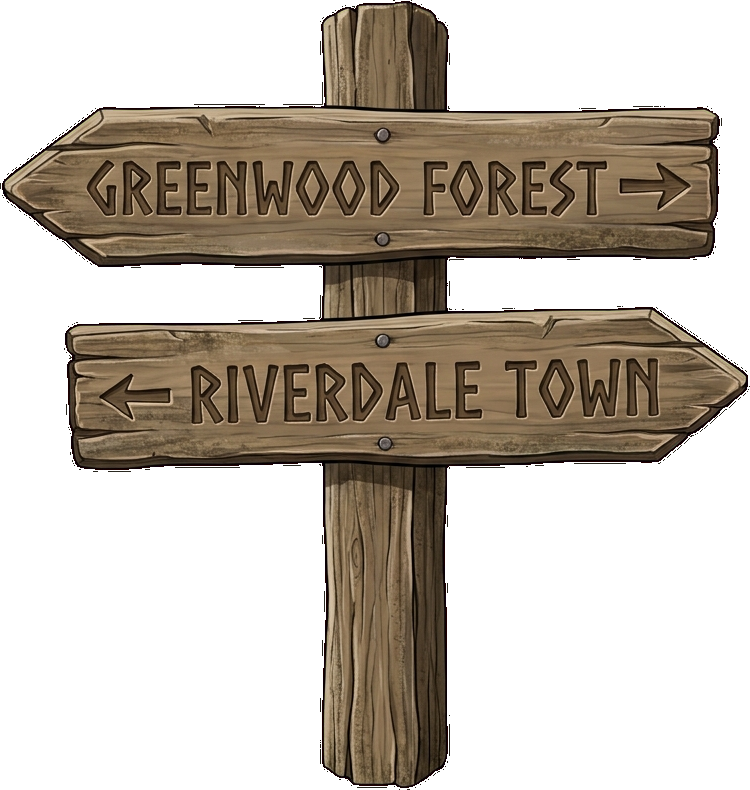
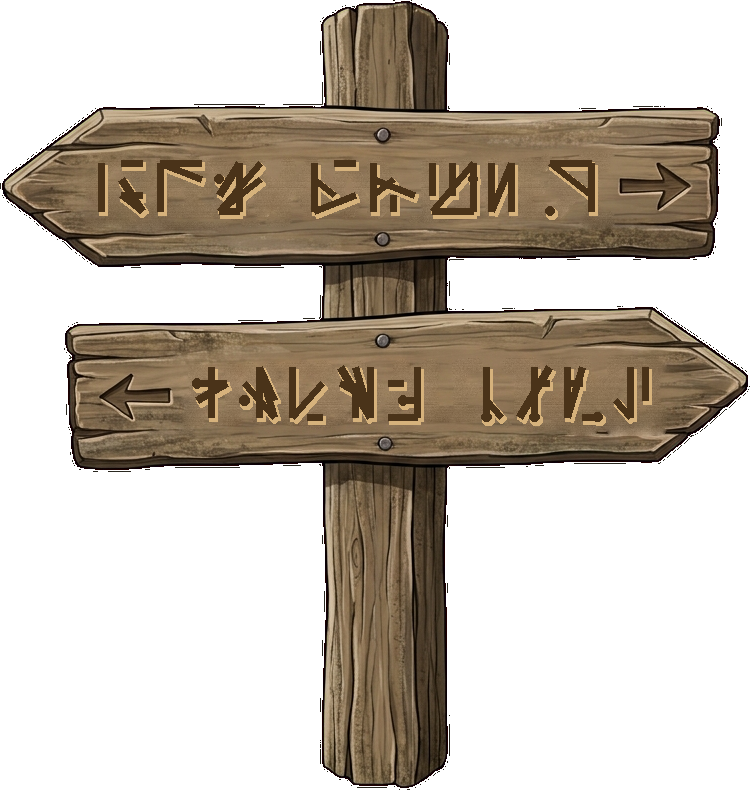
feat: 読める立て札の絵を削除し、すべての立て札を創作の文字（読めない文字）の絵 signpost に統一（road_sign 専用絵・テクスチャを廃止）。テストと仕様書を更新

Changed region(s): [[0.092, 0.1823, 0.828, 0.3038], [0.2453, 0.4557, 0.8893, 0.5772]]

diff --git a/public/js/textures.js b/public/js/textures.js
@@ -2172,19 +2172,10 @@ export class RetroTextureGenerator {
         return texture;
     }
 
-    // Wooden Signpost sprite
+    // Wooden Signpost sprite（板の文字は、世の中に存在しない創作の文字。読めない。scripts/images/make_road_sign.py で作った絵）
     static createSignpostTexture() {
         const loader = new THREE.TextureLoader();
         const texture = loader.load('/images/objects/signpost.png?v=' + Date.now());
-        texture.magFilter = THREE.NearestFilter;
-        texture.minFilter = THREE.NearestFilter;
-        return texture;
-    }
-
-    // 道しるべ（road_sign）: 立て札の板の文字を、世の中に存在しない文字（創作の文字）に替えた絵（scripts/images/make_road_sign.py で作る）
-    static createRoadSignTexture() {
-        const loader = new THREE.TextureLoader();
-        const texture = loader.load('/images/objects/road_sign.png?v=' + Date.now());
         texture.magFilter = THREE.NearestFilter;
         texture.minFilter = THREE.NearestFilter;
         return texture;

diff --git a/public/js/game.js b/public/js/game.js
@@ -345,7 +345,6 @@ export class GameEngine {
             ashGround: RetroTextureGenerator.createSpeckleFloorTexture('#3a3430', ['#2a2522', '#4a423c', '#554a42', '#1f1b19']),
             boulder: RetroTextureGenerator.createBoulderTexture(),
             signpost: RetroTextureGenerator.createSignpostTexture(),
-            roadSign: RetroTextureGenerator.createRoadSignTexture(),   // 道しるべ（文字は、創作の文字）
             weaponShopSign: RetroTextureGenerator.createShopSignTexture('weapon'),
             itemShopSign: RetroTextureGenerator.createShopSignTexture('item'),
             innSign: RetroTextureGenerator.createShopSignTexture('inn'),

diff --git a/scripts/images/make_road_sign.py b/scripts/images/make_road_sign.py
@@ -1,13 +1,15 @@
-"""道しるべ（road_sign）の絵を、立て札（signpost.png）から作る。板の英語の文字を消し、世の中に存在しない文字（創作の文字）を、同じ彫りの調子で彫る。矢印は、そのまま残す。
-使い方: python3 scripts/images/make_road_sign.py（決定的。乱数は固定）"""
+"""立て札の絵（public/images/objects/signpost.png）を作る。元の絵（板に、英語の地名が読める立て札）の英語の文字を消し、世の中に存在しない文字（創作の文字）を、同じ彫りの調子で彫る。矢印は、そのまま残す。
+全ての立て札（街の名前・施設・道しるべ・山道など。type が signpost で、texture が signpost のもの）が、この絵を使う（読める立て札の絵は、使わないので、削除した）。
+元の絵は、.claudeWork/signpost_readable_original.png に退避してある（AI 専用の作業領域。リポジトリには入れない）。
+使い方: python3 scripts/images/make_road_sign.py（決定的。乱数は固定）。出力は signpost.png を上書きする"""
 import os
 import random
 import numpy as np
 from PIL import Image, ImageDraw, ImageFilter
 
 ROOT = os.path.join(os.path.dirname(__file__), '..', '..')
-SRC = os.path.join(ROOT, 'public', 'images', 'objects', 'signpost.png')
-DST = os.path.join(ROOT, 'public', 'images', 'objects', 'road_sign.png')
+SRC = os.path.join(ROOT, '.claudeWork', 'signpost_readable_original.png')
+DST = os.path.join(ROOT, 'public', 'images', 'objects', 'signpost.png')
 
 # 文字を消す範囲（矢印・釘は含めない）と、文字を彫る列（(x 左, x 右, y 上, y 下, 単語ごとの文字数)）
 PLANKS = [

diff --git a/docs/map-spec.md b/docs/map-spec.md
@@ -1618,7 +1618,7 @@ Sources:
 - **道しるべ**（2026-11-08。「分かれ道に、行き先を書いた看板を」。ユーザーの選択: 分かれ道のみ・1 本、内容は方角と行き先）: 街道が分かれる所（今は D の近く 1 か所）に、立て札 `road_sign`（`signpost`）を 1 本。分かれ道のそばの、**90 度の曲がり角（＿｜の形）の外側の、道の縁に接する空きマス**（ユーザー指示「看板が道から遠い。90 度の道のすぐ近くに」。曲がり角の中心線から、外側へ（縦 1・横 2）マス。道は幅 3 なので、縁に接する）。曲がり角がなければ、分かれ道の斜め 2 マス。近づくと（2.2 以内）画面に、「北: グリーン王国 / 西: ダマスカス自治領 / 東: ガリレオ連盟」のような文章が出る。方角は、地図の北・西・東・南で、分かれ道から 10 マス先の道の位置で決める（すぐ先で曲がる道でも、行き先の方向になる）。
   - **文章はマスごと**: 外のマップの `signs`（`"列,行": 文章`）。`game.js` の立て札は、`signs` があれば、それを使う（なければ、物体の `message`）。
   - 生成: `roads.fork_sign`（道路網の分かれ道と、そばの直角の曲がり角を探し、方角と行き先を作る）。`gen_world.py` の `ROAD_SIGNS`。2 つ目以降の街（道が分かれる所）で、自動で立つ。
-  - **絵**（ユーザー指示「何か書かれているが、世の中に存在しない文字的な感じに」）: 専用の絵 `public/images/objects/road_sign.png`（テクスチャ名 `roadSign`）。既存の立て札 `signpost.png` の板の英語の地名を消し、創作の文字（縦の軸に、はね・かぎ・点を組み合わせた、読めない文字）を、同じ彫りの調子で彫った。矢印はそのまま。`scripts/images/make_road_sign.py` で作る（乱数は固定。同じ絵ができる）。本当の文章は、近づいたときの画面の帯に出る。
+  - **絵**（ユーザー指示「何か書かれているが、世の中に存在しない文字的な感じに」→「看板は全て、読めない文字に置き換え。読める絵は削除」）: **全ての立て札**（街の名前・施設・道しるべ・山道などの、`texture: signpost` のもの）が、創作の文字（縦の軸に、はね・かぎ・点を組み合わせた、読めない文字）の絵 `public/images/objects/signpost.png` を使う。読める絵（板に英語の地名）は、削除した（`.claudeWork/signpost_readable_original.png` に退避。リポジトリには入れない）。矢印はそのまま。`scripts/images/make_road_sign.py` で作る（乱数は固定）。専用のテクスチャ `roadSign`・`road_sign.png` は、なくした。店の絵の立て札（武器屋・道具屋・酒場・宿屋の、剣・薬びん・ジョッキ・ベッドの絵）は、文字がなく、そのまま。本当の文章は、近づいたときの画面の帯に出る。
 
 ### 43-68. 街・町・村は、サンプルを手本にする（厳命。2026-11-07）
 - 街・町・村を新しく作る・作り直すときは、サンプル（`city`・`city_noble`・`town`・`village`・`temple_town` など）を手本にする。自分の設計に置き換えない。
